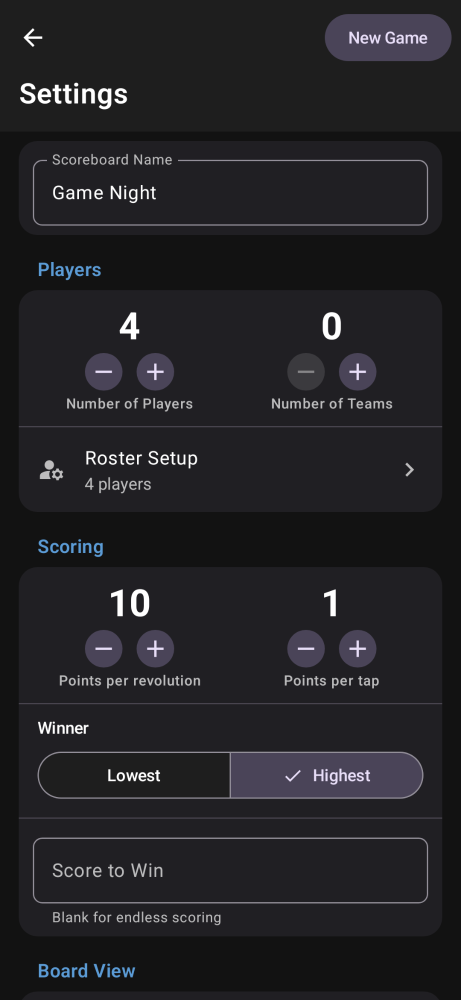
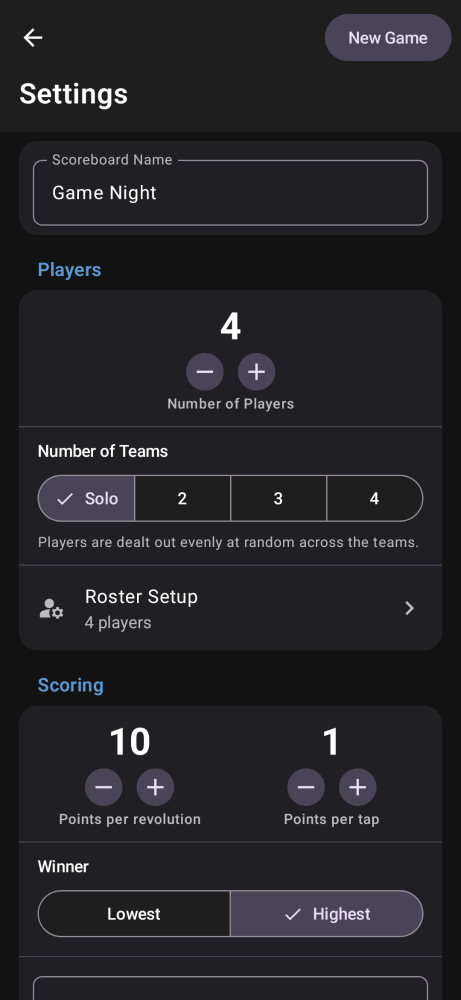
Teams as Solo/2/3/4 pills, hold-to-repeat steppers, Board Display rename

diff --git a/app/src/main/java/com/scoreorbit/android/ui/SettingsScreens.kt b/app/src/main/java/com/scoreorbit/android/ui/SettingsScreens.kt
@@ -28,6 +28,8 @@ import androidx.compose.foundation.layout.offset
 import androidx.compose.foundation.layout.padding
 import androidx.compose.foundation.layout.size
 import androidx.compose.foundation.layout.width
+import androidx.compose.foundation.interaction.MutableInteractionSource
+import androidx.compose.foundation.interaction.collectIsPressedAsState
 import androidx.compose.foundation.lazy.LazyColumn
 import androidx.compose.foundation.ScrollState
 import androidx.compose.foundation.lazy.items
@@ -83,6 +85,7 @@ import androidx.compose.material3.TopAppBar
 import androidx.compose.material3.TopAppBarDefaults
 import androidx.compose.runtime.Composable
 import androidx.compose.runtime.DisposableEffect
+import androidx.compose.runtime.LaunchedEffect
 import androidx.compose.runtime.getValue
 import androidx.compose.runtime.mutableFloatStateOf
 import androidx.compose.runtime.mutableIntStateOf
@@ -225,13 +228,12 @@ fun SettingsScreen(game: Game?, viewModel: ScoreViewModel, scrollState: ScrollSt
                 }
 
                 SettingsGroup(label = "Players") {
-                    // Twin steppers, mirroring the Scoring cells: players on
-                    // the left, teams on the right. Teams default to 0,
-                    // players to 2.
+                    // Stepper for the player count (free range, so a stepper
+                    // fits); teams below as pills — the sensible team counts
+                    // are a fixed choice, not a range.
                     Row(
-                        modifier = Modifier
-                            .fillMaxWidth()
-                            .padding(horizontal = 8.dp, vertical = 8.dp),
+                        modifier = Modifier.fillMaxWidth(),
+                        horizontalArrangement = Arrangement.Center,
                     ) {
                         StepperCell(
                             value = "${game.players.size}",
@@ -240,16 +242,37 @@ fun SettingsScreen(game: Game?, viewModel: ScoreViewModel, scrollState: ScrollSt
                             onPlus = { viewModel.setPlayerCount(game.players.size + 1) },
                             minusEnabled = game.players.size > 1,
                             plusEnabled = game.players.size < 12,
-                            modifier = Modifier.weight(1f),
+                            modifier = Modifier.padding(horizontal = 8.dp, vertical = 8.dp),
                         )
-                        StepperCell(
-                            value = "${game.teams.size}",
-                            caption = "Number of Teams",
-                            onMinus = { viewModel.setTeamCount(game.teams.size - 1) },
-                            onPlus = { viewModel.setTeamCount(game.teams.size + 1) },
-                            minusEnabled = game.teams.size > 0,
-                            plusEnabled = game.teams.size < 4,
-                            modifier = Modifier.weight(1f),
+                    }
+                    HorizontalDivider(color = MaterialTheme.colorScheme.outlineVariant)
+                    Column(modifier = Modifier.padding(horizontal = 16.dp, vertical = 12.dp)) {
+                        Text(
+                            "Number of Teams",
+                            style = MaterialTheme.typography.titleSmall,
+                            color = MaterialTheme.colorScheme.onSurface,
+                        )
+                        Spacer(modifier = Modifier.height(8.dp))
+                        val teamOptions = listOf(0, 2, 3, 4)
+                        SingleChoiceSegmentedButtonRow(modifier = Modifier.fillMaxWidth()) {
+                            teamOptions.forEachIndexed { i, count ->
+                                SegmentedButton(
+                                    selected = game.teams.size == count,
+                                    onClick = { viewModel.setTeamCount(count) },
+                                    shape = SegmentedButtonDefaults.itemShape(
+                                        index = i,
+                                        count = teamOptions.size,
+                                    ),
+                                ) {
+                                    Text(if (count == 0) "Solo" else "$count")
+                                }
+                            }
+                        }
+                        Spacer(modifier = Modifier.height(6.dp))
+                        Text(
+                            "Players are dealt out evenly at random across the teams.",
+                            style = MaterialTheme.typography.bodySmall,
+                            color = MaterialTheme.colorScheme.onSurfaceVariant,
                         )
                     }
                     HorizontalDivider(color = MaterialTheme.colorScheme.outlineVariant)
@@ -378,7 +401,7 @@ fun SettingsScreen(game: Game?, viewModel: ScoreViewModel, scrollState: ScrollSt
                     )
                 }
 
-                SettingsGroup(label = "Board View") {
+                SettingsGroup(label = "Board Display") {
                     ListItem(
                         headlineContent = { Text("Show Player Names") },
                         supportingContent = { Text("Display names beside scores") },
@@ -720,11 +743,11 @@ private fun StepperCell(
         )
         Spacer(modifier = Modifier.height(4.dp))
         Row(verticalAlignment = Alignment.CenterVertically) {
-            FilledTonalIconButton(onClick = onMinus, enabled = minusEnabled, modifier = Modifier.size(32.dp)) {
+            HoldRepeatButton(onClick = onMinus, enabled = minusEnabled) {
                 Icon(Icons.Default.Remove, contentDescription = "Decrease")
             }
             Spacer(modifier = Modifier.width(12.dp))
-            FilledTonalIconButton(onClick = onPlus, enabled = plusEnabled, modifier = Modifier.size(32.dp)) {
+            HoldRepeatButton(onClick = onPlus, enabled = plusEnabled) {
                 Icon(Icons.Default.Add, contentDescription = "Increase")
             }
         }
@@ -737,6 +760,43 @@ private fun StepperCell(
             maxLines = 2,
             overflow = TextOverflow.Ellipsis,
         )
+    }
+}
+
+/**
+ * Stepper button with press-and-hold auto-repeat: a tap counts once on
+ * release, but holding past ~450ms starts rounding off a ~10Hz repeat
+ * (the hold also suppresses the release click, so one gesture is one step
+ * only when it began as a tap).
+ */
+@OptIn(ExperimentalMaterial3Api::class)
+@Composable
+private fun HoldRepeatButton(
+    onClick: () -> Unit,
+    enabled: Boolean,
+    content: @Composable () -> Unit,
+) {
+    val interaction = remember { MutableInteractionSource() }
+    val pressed by interaction.collectIsPressedAsState()
+    var repeated by remember { mutableStateOf(false) }
+    LaunchedEffect(pressed, enabled) {
+        if (pressed && enabled) {
+            repeated = false
+            delay(450)
+            while (true) {
+                onClick()
+                repeated = true
+                delay(90)
+            }
+        }
+    }
+    FilledTonalIconButton(
+        onClick = { if (!repeated) onClick() },
+        enabled = enabled,
+        interactionSource = interaction,
+        modifier = Modifier.size(32.dp),
+    ) {
+        content()
     }
 }
 
